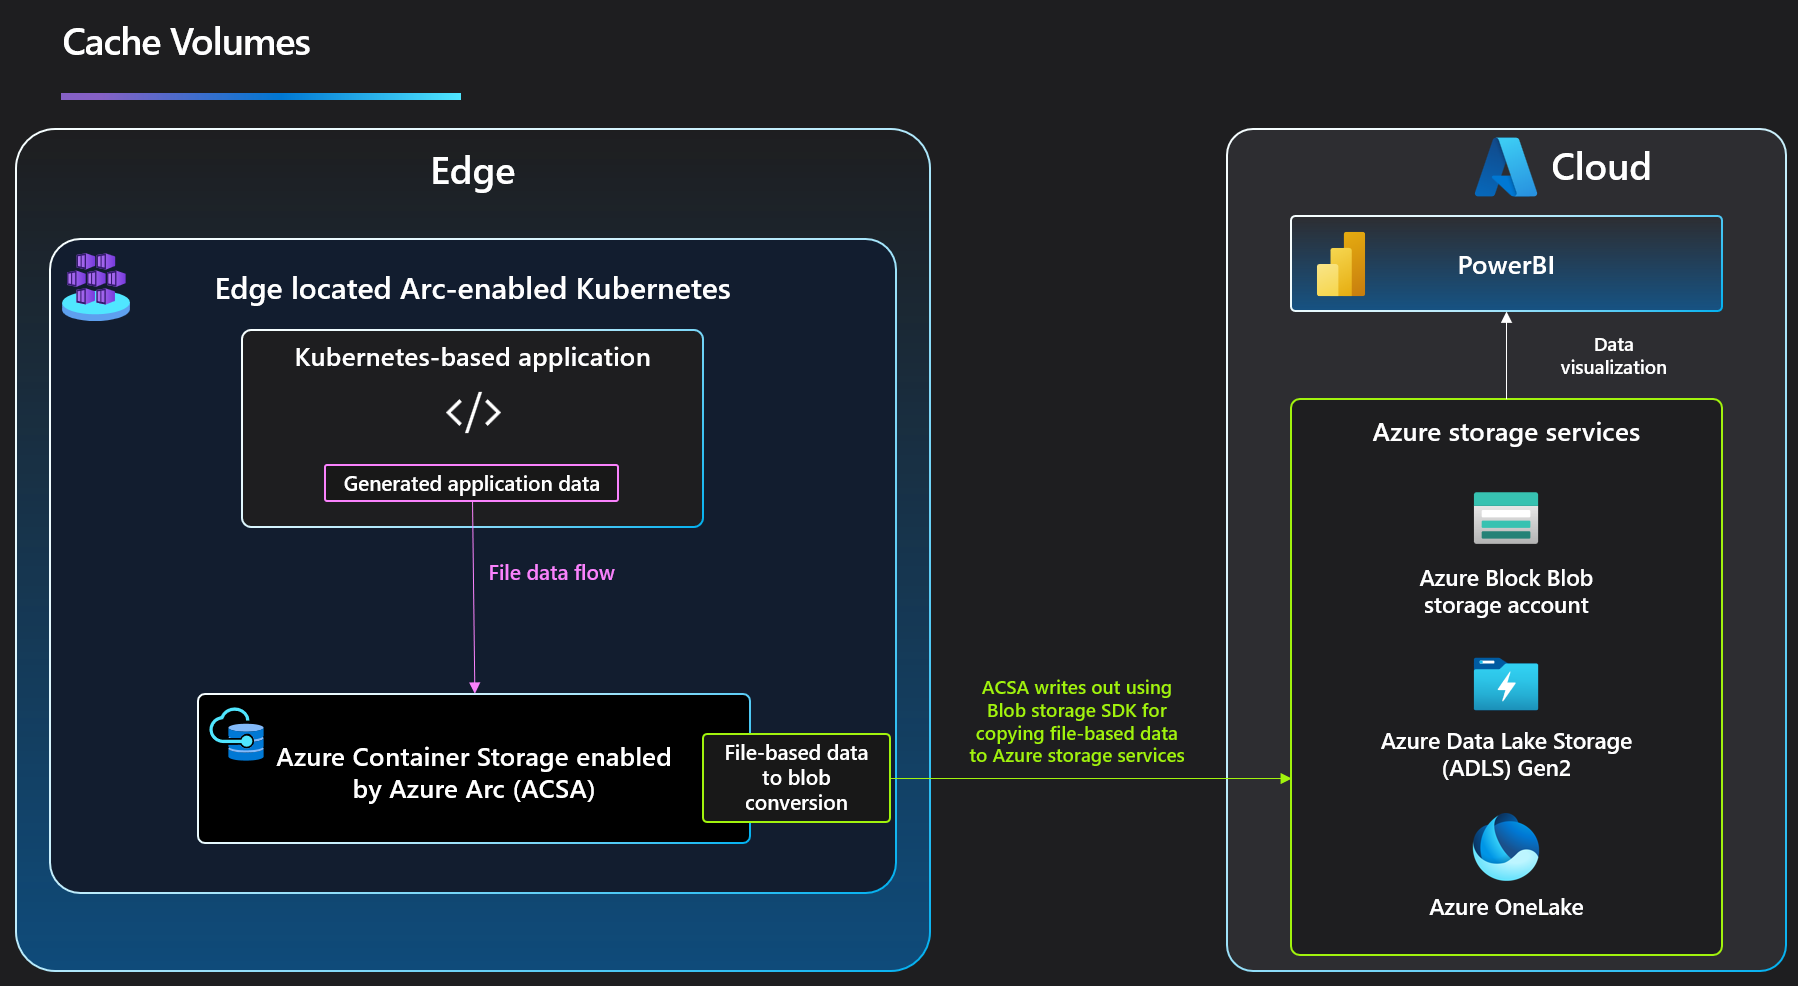
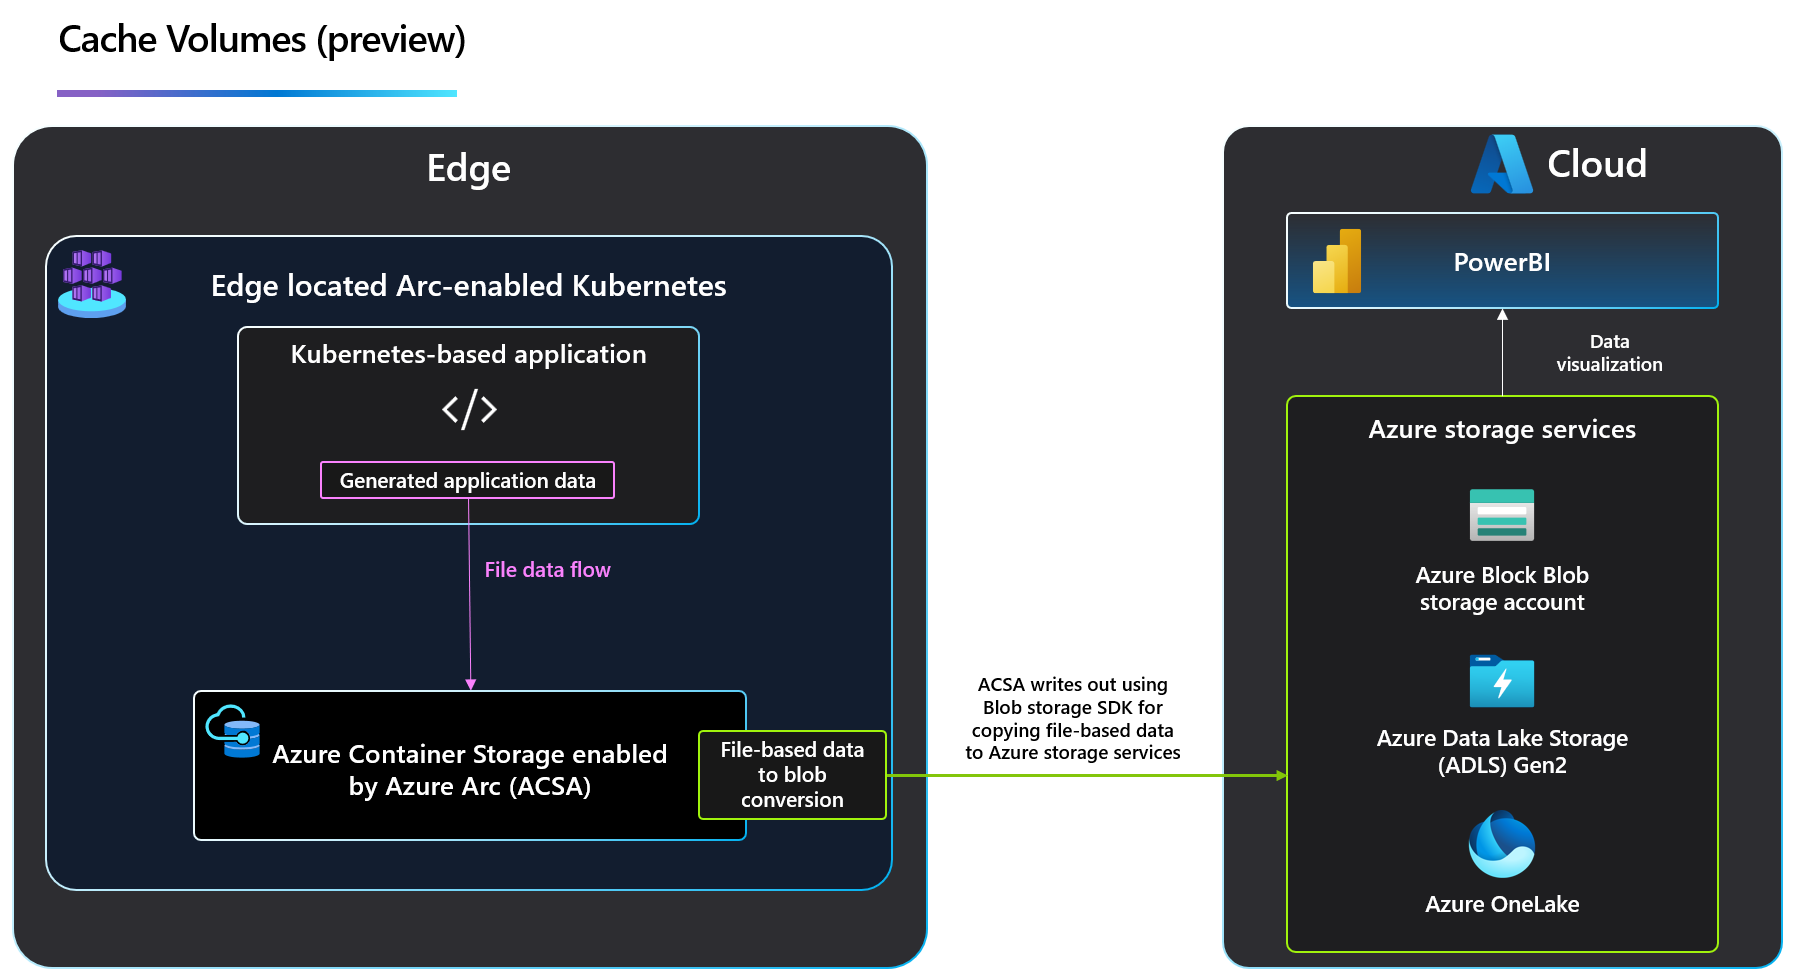
change image

diff --git a/articles/azure-arc/container-storage/cache-volumes-overview.md b/articles/azure-arc/container-storage/cache-volumes-overview.md
@@ -14,7 +14,7 @@ This article describes the Cache Volumes (preview) offering from Azure Container
 
 ## How does Cache Volumes (preview) work?
 
-:::image type="content" source="media/container-storage-cache-volumes-overview.png" alt-text="Diagram of Cache Volumes in Azure Container Storage enabled by Azure Arc." lightbox="media/container-storage-cache-volumes-overview.png":::
+:::image type="content" source="media/container-storage-cache-volumes-overview.png" alt-text="Diagram of Cache Volumes (preview) in Azure Container Storage enabled by Azure Arc." lightbox="media/container-storage-cache-volumes-overview.png":::
 
 Cache Volumes (preview) works by performing the following operations:
 
